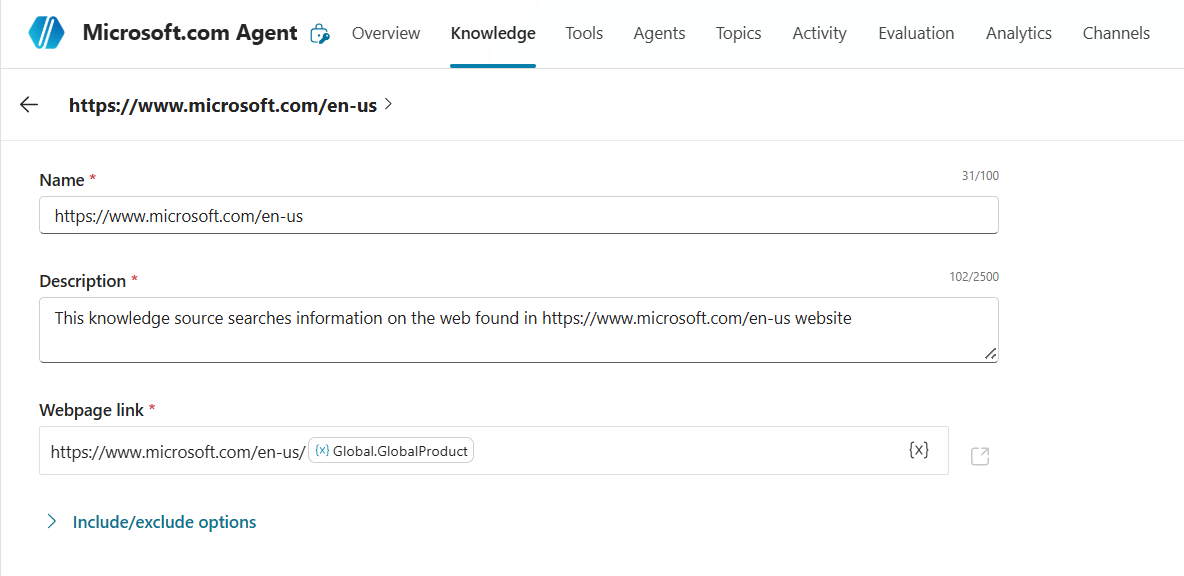
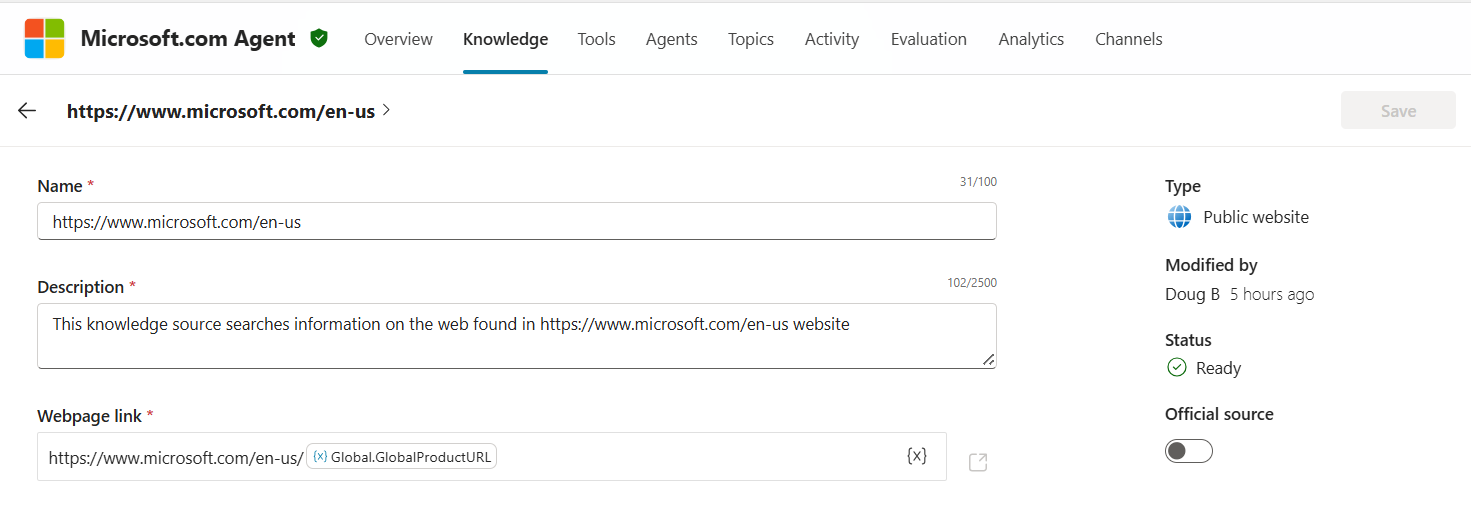
updates to dynamic knowledge URL article
switched variable method from conditional mapping to topic input + table mapping

diff --git a/_posts/2026-02-10-dynamic-knowledge-urls-copilot-studio.md b/_posts/2026-02-10-dynamic-knowledge-urls-copilot-studio.md
@@ -1,9 +1,9 @@
 ---
 layout: post
 title: "Zero Noise, Maximum Relevance: Dynamic Knowledge URLs in Copilot Studio"
-date: 2026-02-02 12:00:00 +0000
+date: 2026-02-09 12:00:00 +0000
 categories: [copilot-studio, knowledge]
-tags: [knowledge-sources, dynamic-urls, public-website, alm, multi-region]
+tags: [knowledge-sources, dynamic-urls, public-website, alm, multi-region, powerfx, topic-inputs, topic-input, variables, table-variables]
 description: How a simple variable unlocks multi-market, multi-language, and multi-product web grounding while improving ALM processes.
 author: dbellingeri
 image:
@@ -12,9 +12,9 @@ image:
   no_bg: true
 ---
 
-Just recently released in preview it's a deceptively small feature with significant practical implications: you can now parameterize the URL of a website using a variable letting a single knowledge source adapt itself to the user or environment context in real time.
+Microsoft just introduced a small but powerful improvement: the ability to parameterize the URL of a knowledge website with a variable. With this, a single knowledge source can now shift automatically based on who the user is, what the conversation is about, or the environment in which the agent is running.
 
-This was asked for by many customers who want to be able to scope knowledge based on user or environment parameters without needing to manage many separate knowledge entries.
+This capability has been a consistent customer request, helping teams tailor knowledge access without the overhead of managing many separate knowledge entries.
 
 ## The Problems this Solves
 
@@ -72,36 +72,84 @@ To do this, go to Add knowledge, choose Public Websites, then click the {x} to a
 
 In this example I will be using the public website knowledge variable to scope the Microsoft.com/en-us website based on the product the user asks about.
 
-I first need to create a Global variable to use for knowledge scoping.
+To accomplish this, I first need to create and set a Global variable to use for knowledge scoping.
 
-In this example, I'm going to manage this variable via a Topic. Remember you can set the variable you plan to use for knowledge in many ways, the key is to make sure you use a string type variable that is set to Global.
+In the tutorial below, I'm going to manage this variable via a Topic. Remember, you can set the variable you plan to use for knowledge in many ways, the key is to make sure you use a string type variable that is set to Global.
 
-I'm going to set the GlobalProduct variable by asking the user to select the product they're interested in via a Topic. I use an "ask a question" node and give the user some options to choose from. Since the URL paths on websites for product pages aren't always friendly (such as Copilot = /Microsoft-365-copilot), I am capturing the user response for the "friendly" name in one variable and setting the GlobalProduct variable based on the friendly name selection.
+I'm then going to set the GlobalProductURL variable by using a couple of great, but less talked about features within Topics. I will first extract Microsoft Product names out of the user's query using Topic Inputs. Then since the URL paths on websites for product pages aren't always friendly (Example: Copilot is in the /Microsoft-365-copilot path), I am capturing the user response for the "friendly" name via the Topic Input Variable and setting the GlobalProductURL variable to the correct URL Path for the friendly product name. To do this, I will define a table variable that contains the mapping between friendly product names and their respective URL Paths. 
 
-The GlobalProduct variable has been created as a text/string type and set to a Global variable so it can be used outside of the topic we are in. Once the selection is made, I send a message to the user asking them to go ahead with their question about the Product they chose.
+1. Create the topic
 
-![Topic configuration for product selection](/assets/posts/dynamic-knowledge-urls/topic-configuration.png){: .shadow w="700" h="400"}
-_Topic configuration for capturing product selection_
+   Be sure to add a good description of how the agent should use the topic.
 
-Once this topic is configured and we have our GlobalProduct variable created, we need to go create our knowledge source entry. From Knowledge we will choose public website, then enter in our knowledge URL and then click the "{X}" to add in the GlobalProduct variable we created in our topic. 
+   ![Product Identifier topic configuration](/assets/posts/dynamic-knowledge-urls/product-identifier-topicsetup.png){: .shadow w="514" h="395"}
+   _Topic configuration for capturing product selection_
 
-![Creating knowledge source with variable](/assets/posts/dynamic-knowledge-urls/knowledge-source-setup.png){: .shadow w="700" h="400"}
-_Setting up the knowledge source with the variable_
+2. Configure the Topic Input
+
+   Topic inputs are an excellent way to extract details out of user utterances or queries without needing to ask them. You can use Topic Inputs to automatically identify several different out of the box entities, you can define your own entities, or you can rely on descriptions and examples to extract details out of the user inputs. Since we are trying to identify mentions of Microsoft Product's I'm using the "Dynamically fill with best option" setting for how the agent will fill this input. Topic Inputs must be filled before the topic will progress to the next step. If the user does not mention a Product in their message to the agent, the agent will automatically ask them what product they are interested in. Using topic inputs can help reduce back and forth and make the agent interaction more natural. I know I am immediately put off by agent interactions that start with me saying "I have an issue with X", only for the agent to reply "Hi, I can help with questions, orders, and issues, let me know how I can help!". In this case the agent will only ask the user what product they want information on if they do not mention one in their message.
+
+   ![Product Identifier input variable configuration](/assets/posts/dynamic-knowledge-urls/product-identifier-inputvar.png){: .shadow w="503" h="1306"}
+   _Configuring topic input to capture product name_
+
+3. Configure Product Mapping Table
+
+   Add a Set Variable Value node after the topic trigger. Create a new Variable named ProductTable. In the To Value box open up the PowerFX editor and define the mapping table. In this example I'm using product and path columns where the product = the friendly name of the product and the path is the URL path that should be used to scope the Knowledge source URL.
+
+   The PowerFX for the table I used is as follows:
+
+   ```powerfx
+   Table(
+       { product: "Copilot",    Path: "microsoft-365-copilot" },
+       { product: "Excel",      Path: "microsoft-365" },
+       { product: "PowerPoint", Path: "microsoft-365" },
+       { product: "Word",       Path: "microsoft-365" },
+       { product: "Teams",      Path: "microsoft-teams" },
+       { product: "Surface",    Path: "surface" }
+   )
+   ```
+
+   ![Product-Path table mapping](/assets/posts/dynamic-knowledge-urls/product-path-mapping-table.png){: .shadow w="700" h="400"}
+   _Using PowerFX to define the product-path mapping_
+
+4. Lookup the matching Path based on Product identified in the Topic Input
+
+   Add another Set Variable Value node and create a new variable called GlobalProductURL. Set this to be a string type and set the usage setting to Global. This will allow the variable to be used outside of the topic scope. In the To value open the PowerFX editor and use the following PowerFX function to perform a lookup into the table based on the value of the Product input variable "Topic.Product".
+
+   ```powerfx
+   LookUp(Topic.ProductTable, product = Topic.Product, Path)
+   ```
+
+   ![Product-Path Lookup](/assets/posts/dynamic-knowledge-urls/product-path-lookup.png){: .shadow w="700" h="400"}
+   _Using PowerFX to lookup the URL path based on product_
+
+   Once configured the end to end topic will look like this:
+
+   ![Product Identifier Topic](/assets/posts/dynamic-knowledge-urls/product-identifier-topic.png){: .shadow w="549" h="1432"}
+   _End to end view of the configured Product Identifier Topic_
+
+5. Configure the Website Knowledge Source to use the GlobalProductURL Variable
+
+   Once this topic is configured and we have our GlobalProductURL variable created, we need to go create our knowledge source entry. From Knowledge we will choose public website, then enter in our knowledge URL and then click the "{X}" to add in the GlobalProductURL variable we created in our topic.
+
+   ![Creating knowledge source with variable](/assets/posts/dynamic-knowledge-urls/knowledge-source-setup.png){: .shadow w="700" h="400"}
+   _Setting up the knowledge source with the variable_
+
+That's it! We now have a dynamic way to scope knowledge using a couple of cool topic based tricks. 
+
+Note: for demonstration purposes I added another topic that uses the "AI Response Triggered" trigger to send a message containing the contents of the GlobalProductURL variable every time the agent is about to respond to the user. This will show what the knowledge URL was scoped to so we can confirm everything is working correctly. 
 
 ### Results
 
-This conversation below was scoped to the Microsoft Copilot sub-page. It answers Copilot related queries without issue but will not answer questions with information coming from the Surface or Excel sub-pages.
+In this first example I ask about WorkIQ in Copilot. The AI Response Triggered topic prints what the agent used to scope Knowledge and both citations that came back from the agent were appropriately scoped to www.microsoft.com/en-us/microsoft-365-copilot. 
 
 ![Copilot scoped results](/assets/posts/dynamic-knowledge-urls/copilot-results.png){: .shadow w="700" h="400"}
 _Agent responding with Copilot-scoped knowledge_
 
-The following two examples show the Surface and Excel questions being asked to the same agent with the knowledge scoping set to those respective sub-pages.
+In this next example I ask a question without mentioning a product name. The agent generates its own question to identify which product I'm referring to with my question about ram. Once it fills the topic input with my response it then queries the scoped knowledge accordingly. 
 
 ![Surface scoped results](/assets/posts/dynamic-knowledge-urls/surface-results.png){: .shadow w="700" h="400"}
 _Agent responding with Surface-scoped knowledge_
-
-![Excel scoped results](/assets/posts/dynamic-knowledge-urls/excel-results.png){: .shadow w="700" h="400"}
-_Agent responding with Excel-scoped knowledge_
 
 ## Use Case 2: Country or Region Filtering
 
